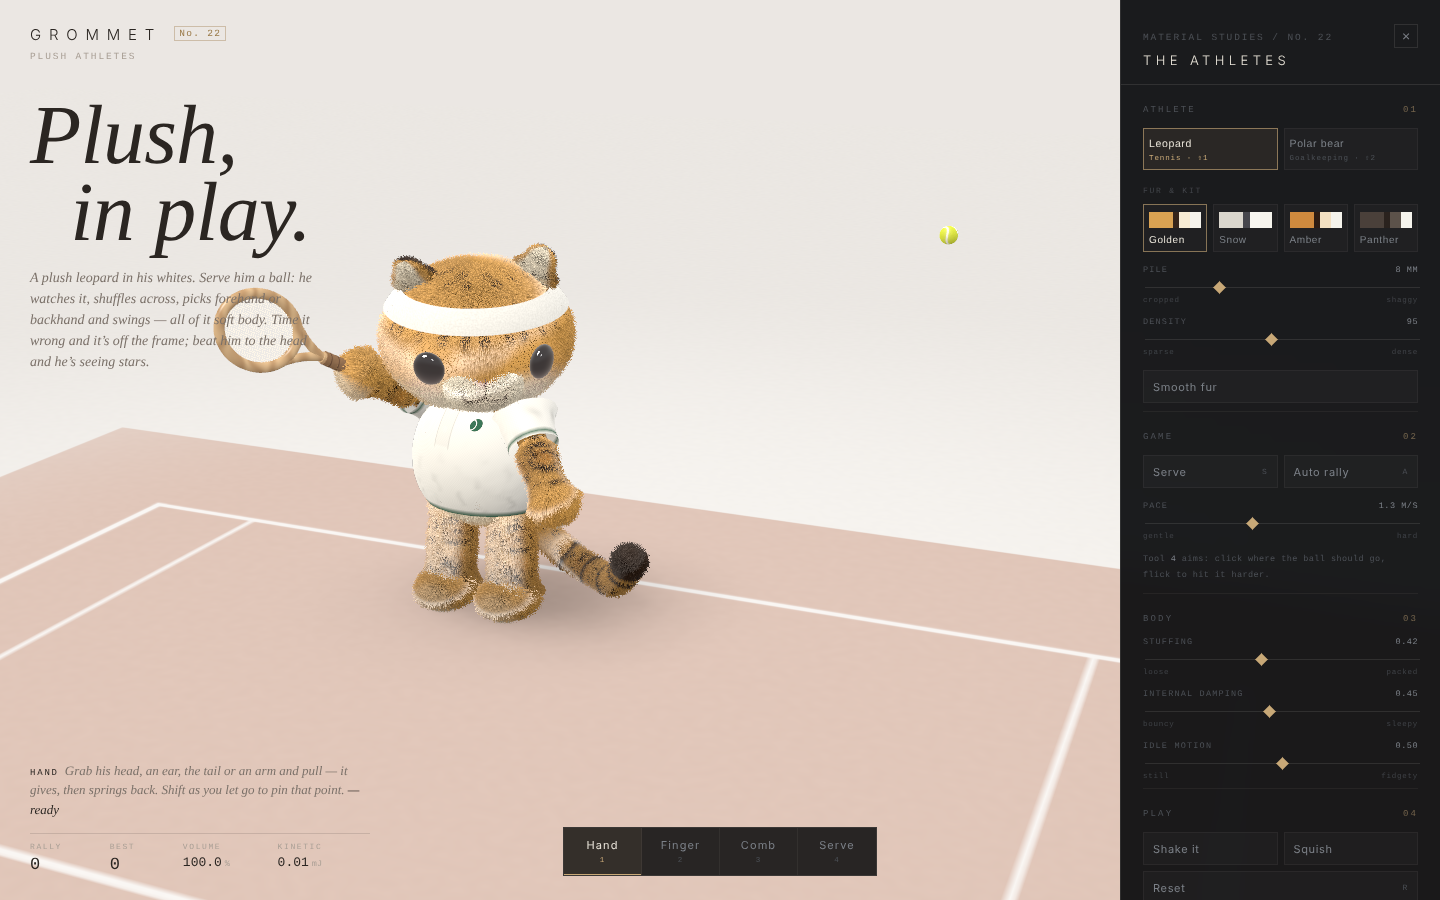
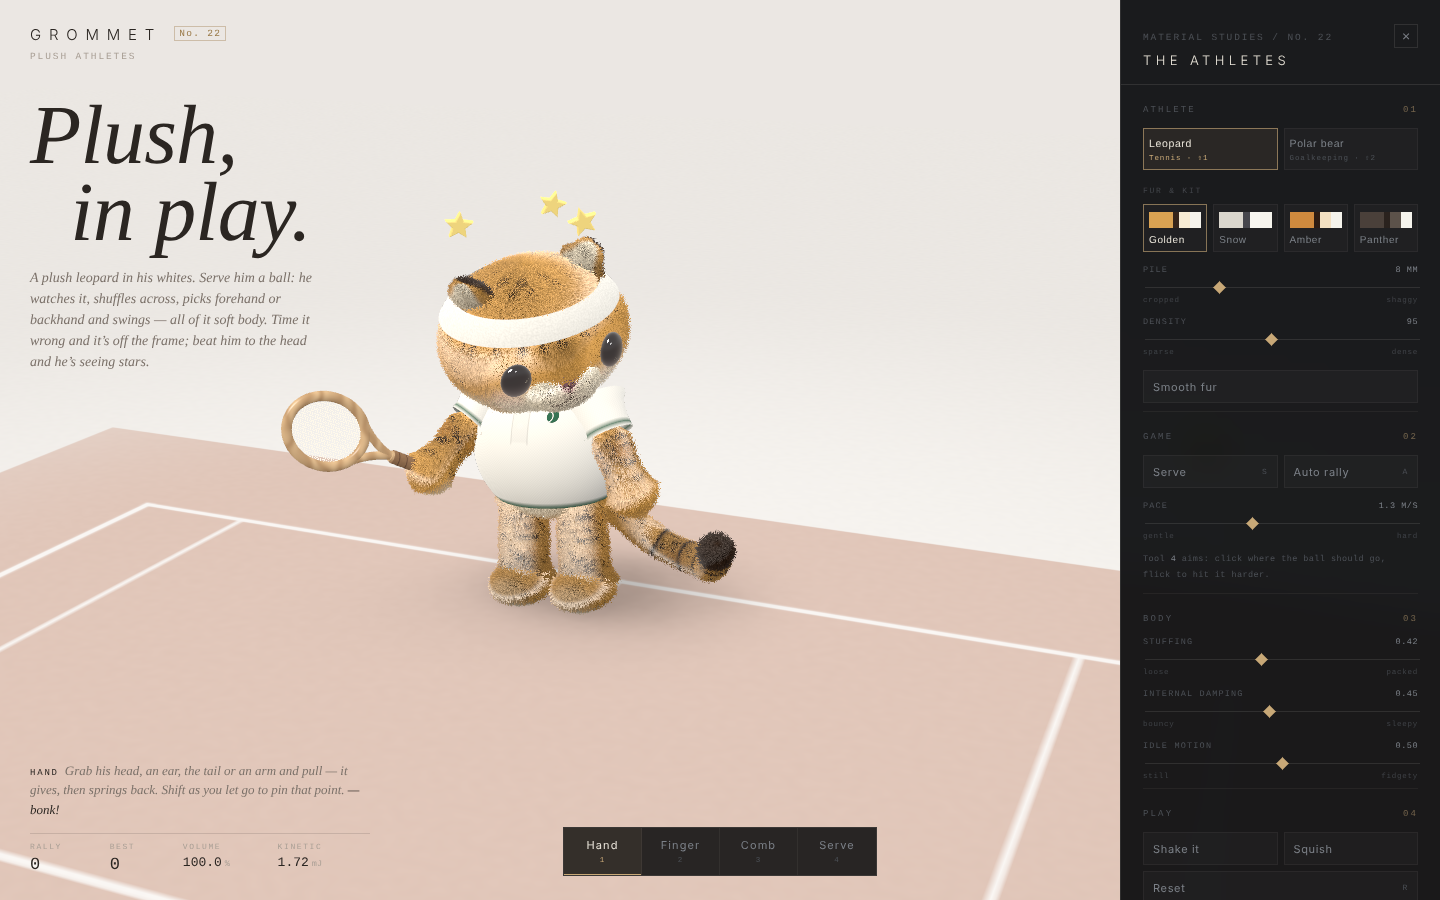
Grommet: dive and footwork fixes, deterministic shots, source README
Footwork no longer brakes the body when it has no target (it was killing the
bear's dive); landings settle instead of rolling over; dives solve for the
paws' reach across and up with a loading beat; the backhand winds up across
the chest. Screenshots seed Math.random and freeze the live loop while
scripted. README documents how to add an athlete.

Claude-Session: https://claude.ai/code/session_01DuEs17hWw3cp8xnG6SJLfB

diff --git a/grommet/_source/src/balance.js b/grommet/_source/src/balance.js
@@ -100,3 +100,19 @@ export function rightUp(soft, h, { k = 7, maxTurn = 2, standY = null, maxLift = 
     x[i * 3] += dvx * h; x[i * 3 + 1] += dvy * h; x[i * 3 + 2] += dvz * h;
   }
 }
+
+/* A landing: the stuffing soaks up the tumble. Each point's velocity is
+   eased toward the body's mean velocity (so spin and jiggle die, the slide
+   doesn't) — a damper, adding nothing.                                   */
+export function settle(soft, h, k = 8) {
+  const ix = soft.rig.clouds[0].ix, v = soft.v, x = soft.x;
+  let mx = 0, my = 0, mz = 0;
+  for (const i of ix) { mx += v[i * 3]; my += v[i * 3 + 1]; mz += v[i * 3 + 2]; }
+  mx /= ix.length; my /= ix.length; mz /= ix.length;
+  const e = Math.min(1, k * h);
+  for (const i of ix) {
+    x[i * 3] += (mx - v[i * 3]) * e * h;
+    x[i * 3 + 1] += (my - v[i * 3 + 1]) * e * h;
+    x[i * 3 + 2] += (mz - v[i * 3 + 2]) * e * h;
+  }
+}

diff --git a/grommet/_source/src/main.js b/grommet/_source/src/main.js
@@ -378,7 +378,7 @@ async function start() {
     camera.fov = narrow ? 42 : 30;
     if (tools && state.character) {
       const cam = CHARACTER_INFO[state.character].camera;
-      tools.orbit.dist = narrow ? cam.dist * (game.net ? 1.75 : 1.45) : cam.dist;
+      tools.orbit.dist = narrow ? cam.dist * (game.net ? 1.7 : 1.25) : cam.dist;
       tools.applyOrbit();
     }
     camera.setViewOffset(innerWidth, innerHeight, frame.shift, 0, innerWidth, innerHeight);
@@ -475,7 +475,7 @@ async function start() {
 
     frames++; fpsT += real; readT += real;
     if (fpsT > 0.5) { $('#fps').textContent = Math.round(frames / fpsT); frames = 0; fpsT = 0; }
-    if (readT > 0.12) {
+    if (readT > 0.12 || real === 0) {
       readT = 0;
       const [r0, r1] = game.readout();
       $('#r-a').textContent = r0[1];

diff --git a/grommet/_source/src/athletes/bear.game.js b/grommet/_source/src/athletes/bear.game.js
@@ -19,7 +19,7 @@ import { Athlete, clamp, spring, ease } from './game.js';
 import { Ball } from '../ball.js';
 import { makeGoalSpec, Net } from '../net.js';
 import { BEAR } from './bear.rig.js';
-import { rightUp } from '../balance.js';
+import { rightUp, settle } from '../balance.js';
 
 export const FOOTBALL_R = 0.3;
 export const SHOOTER = [0, FOOTBALL_R, 11.5];
@@ -243,6 +243,8 @@ export class BearGame extends Athlete {
         }
       }
     }
+    // a landing flops rather than rolls on
+    if (this.state === 'down' && this.t < 0.45) settle(soft, h, 7);
     // hauling himself back up
     if (this.state === 'getup') rightUp(soft, h, { standY: this.c0[1], k: 6 * Math.min(1, this.t / 0.5) });
     // the posts and crossbar are solid to him too, and he stays out in

diff --git a/grommet/_source/src/athletes/game.js b/grommet/_source/src/athletes/game.js
@@ -153,7 +153,9 @@ export class Athlete {
   _footwork(h) {
     const s = this.soft, x = s.x, v = s.v, c = s.cloudC[0], ix = this.rig.clouds[0].ix;
     const D = this.drive;
-    if (!D && !this._moving) { s.params.mu = 0.55; return; }
+    // no target, no servo: whatever else is moving him (a dive, a hand, a
+    // knock) has the body to itself
+    if (!D) { s.params.mu = 0.55; this._moving = false; return; }
     const want = D ? [D.x - c[0], D.z - c[2]] : [0, 0];
     const dist = Math.hypot(want[0], want[1]);
     const vmax = D ? D.speed ?? 3 : 0;

diff --git a/grommet/_source/src/athletes/leopard.game.js b/grommet/_source/src/athletes/leopard.game.js
@@ -401,7 +401,8 @@ export class LeopardGame extends Athlete {
       this.best = Math.max(this.best, this.rally);
     } else {
       this.rally = 0;
-      if (kind === 'miss') this.msg = this.plan && Math.abs(this.plan.move) > 2.4 ? 'out of reach' : 'missed it';
+      if (kind === 'miss') this.msg = this.plan && Math.abs(this.plan.move) > 0.4 ? 'out of reach' : 'missed it';
+      if (kind === 'body') this.msg = 'jammed — it hit him';
     }
     if (this.state === 'track') this._go('recover');
   }

diff --git a/grommet/_source/README.md b/grommet/_source/README.md
@@ -1,0 +1,112 @@
+# Grommet — source
+
+Readable source for **Grommet** (Crucible No. 22): plush athletes, each a soft
+body under shell fur, each playing one little sport against you. Stage 1 is the
+**leopard** (tennis) and the **polar bear** (goalkeeping).
+
+This tree lives on the `grommet-source` branch only. What ships to `main` is
+the single built file, `grommet/index.html`.
+
+```
+npm install
+npm test                 # node --test test/*.test.mjs
+npm run build            # → final.html (self-contained; the build fails on any network reference)
+node tools/shots.mjs     # headless Chromium screenshots → shots/ (WebGL 2 on SwiftShader)
+```
+
+Open `final.html?character=leopard|bear` (add `&webgl` to force the WebGL 2
+path). Copy it to `grommet/index.html` on the release branch to publish.
+
+## What came from Flock
+
+The engine is copied from Flock's source (`flock-source`, `flock/_source/`),
+not shared — Flock is never touched:
+
+| file | from Flock | changed |
+|---|---|---|
+| `softbody.js` | small-steps PBD, fixed 1/120 s clock (`advance()`), clouds, chains, tethers, memory | floor friction is a param (`mu`) so shuffling feet can slide |
+| `body.js` | CPU-deformed packed-attribute mesh (≤ 8 vertex buffers) | partial grids (`vr`), partial tubes (`s0…s1`, `rs`), torus `B`, cloth mode (compression → creases) |
+| `fur.js` | 64-shell TSL fur, Kajiya-Kay, eyes, floor + shadow | pattern atlas (spots, nose), court canvas on the floor |
+| `groom.js`, `math.js`, `tools.js`, `idle.js` | as was | tools: Serve/Shoot replaces stick/toys; idle: no octopus arm curls |
+| `pose.js` | the `Pose` class and springs from `toys.js` | — |
+| `rigbuilder.js` | `RigBuilder` from `rigs.js` | `clothGrid` / `clothTube`, a cloth atlas, extra rig fields |
+
+New: `balance.js` (standing upright; the damped get-up servo), `ball.js`,
+`net.js`, `cloth.js` (cotton), `props.js` (racquet, balls, stars, goal),
+`athletes/` (rigs and games), `characters.js` (colours, faces, rosettes, courts).
+
+## Hard-won rules (read before changing physics)
+
+- **Never step with the raw frame dt.** Everything per-step runs inside
+  `soft.advance()`; uneven step lengths pump energy into PBD.
+- **A displacement applied every substep is a force.** `x += v·h` each substep
+  accelerates without bound (that was the first shuffle, and it exploded). Push
+  with `F·h²`, or servo a *velocity*: displace by `Δv·h` toward a target
+  velocity (`_footwork`, `rightUp`).
+- **A position pull of fraction α per substep is a spring of stiffness α/h².**
+  Fine for small corrections (standing `balance`), violent for big ones —
+  righting a fallen bear with it flung him into the air. Big recoveries use
+  `rightUp`, a capped, damped velocity servo.
+- **Keep vertex attributes packed** (WebGPU caps a pipeline at 8 vertex
+  buffers): `tuP`, `tvU`, `uvfp`, `look` carry two things each.
+- **No fur under clothes**: every cloth part needs a `furMask` entry in its rig.
+
+## How an athlete is put together
+
+```
+src/athletes/
+  index.js          ATHLETES registry + ORDER (selector order, ⇧1…⇧9)
+  standing.js       torso + head bulk + inCloud legs + flat soles (cloud 0)
+  game.js           Athlete: attention, balance, footwork, tail, ball hookup
+  leopard.rig.js    rest shape, kit (shirt, collar, sleeves, headband), furMask
+  leopard.game.js   tennis
+  bear.rig.js       rest shape, gloves, furMask
+  bear.game.js      goalkeeping
+characters.js       per-athlete colours, eyes, face, pattern, court, words
+props.js            what they play with (three.js)
+```
+
+### Adding one (stage 2: penguin batter, otter juggler, panda drummer)
+
+1. **Rig** — `src/athletes/NAME.rig.js` exporting `buildNAME()`:
+   - `standingBody(b, {...})` for a biped (or your own clouds for anything
+     else — the otter could float on its back); then grids (head, muzzle…)
+     and chains (`kind: 'arm' | 'ear' | 'tail' | 'leg'`).
+   - Kit with `b.clothGrid` / `b.clothTube` (`style` 0 plain, 1 polo front,
+     2 glove, 3 terry; `trim`, `sway`), and a matching `furMask` in `finish()`.
+   - `finish({ toy: athleteCfg(b, h0, h1, { pivot, chest, armR, armL }), … })`
+     — the game reads `rig.toy` for the head points, neck pivot, ears, arms.
+2. **Game** — `src/athletes/NAME.game.js`, `class NAMEGame extends Athlete`:
+   - `launch({ aim, speed })` puts the ball (or whatever) in play;
+   - `_think(dt)` per fixed step: read, decide, set `this.lookAt`,
+     `this.drive` (footwork), `this.balanceK`, `this.lean`, springs;
+   - `_bones()` returns pose bones (`armBone(k, dir)` points an arm);
+   - `_push(h)` / `_ballStep(h)` per substep: forces (`F·h²`), contacts;
+   - `readout()` → two `[label, value]` pairs; `status()` → a few words.
+3. **Register** it in `athletes/index.js` (`ATHLETES` and `ORDER`).
+4. **Character info** in `characters.js`: `colors` (fur, under, accent, spot,
+   nose, cloth, trim), `eyes`, `pile`, `camera`, `face(g, size, P)`,
+   `pattern(g, size, P, rig)`, `court(g, toPx, k)`, and the words (`label`,
+   `sport`, `tool`, `verb`, `blurb`, `hand`, `play`, `aria`). Add the nose to
+   `noseOf()`.
+5. **Props** in `props.js` and a few lines in `main.js` to show and pose them
+   (see the racquet, the balls and the goal).
+6. **Tests** — add the name to the shared standing/volume/grab/frame-time
+   loop (it runs over `ORDER`) and write the sport's own tests (the ball comes
+   back, the dive gets there and he gets up, nothing runs away).
+7. **Shots** — add scenes to `tools/shots.mjs`, run it, and *look* at them.
+
+## Verification
+
+`npm test` covers, per athlete: standing upright at every stuffing without
+sinking or walking off; volume within 10% (and after a squish); a grab that
+jumps 5 units stays finite and it lands back on its feet; uneven frame times
+settle; idle stays put. Leopard: forehand and backhand returns go back toward
+the server; mistimed swings don't; out of reach is a miss; a fast ball to the
+head bonks him with bounded energy and he recovers; a 20 s auto rally never runs
+away. Bear: corner dives get a glove to the ball and he gets back up (no
+frame-to-frame jumps); a body shot is saved without a dive; faster corner shots
+score more; a run of shots never runs away.
+
+There is no GPU in the build sandbox: screenshots are SwiftShader, and frame
+rate / WebGPU behaviour have to be checked on real hardware.
